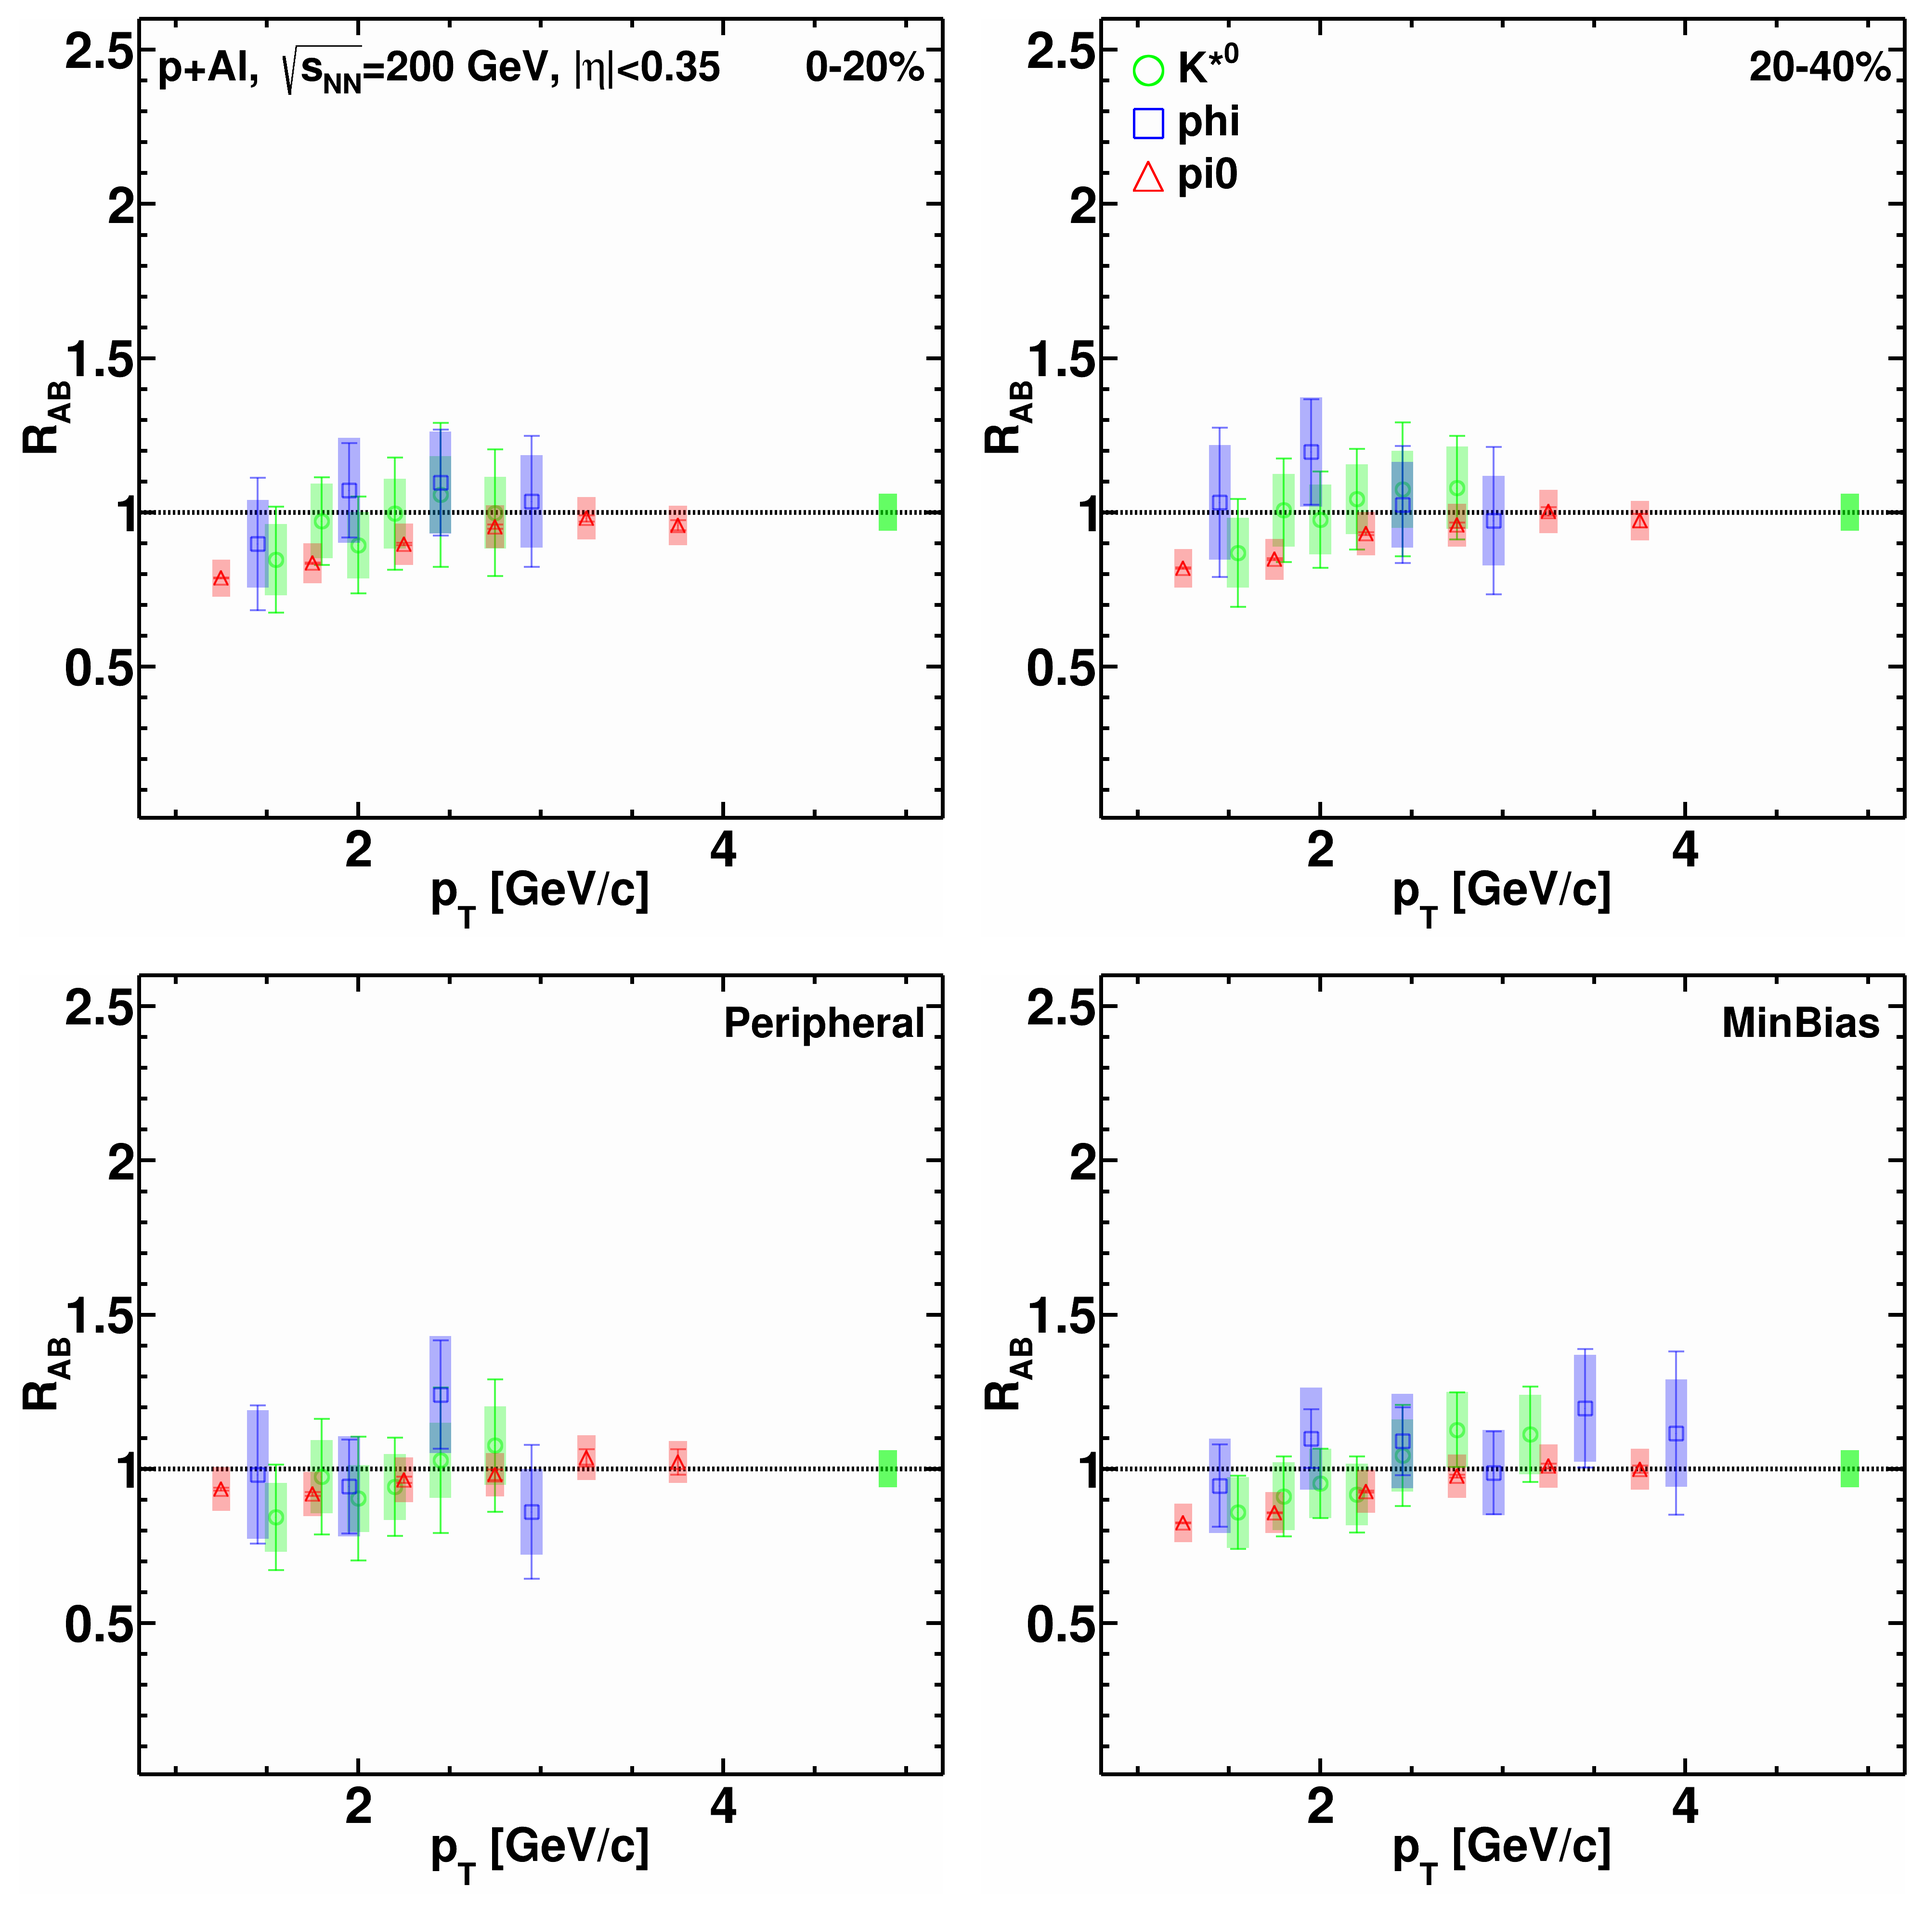
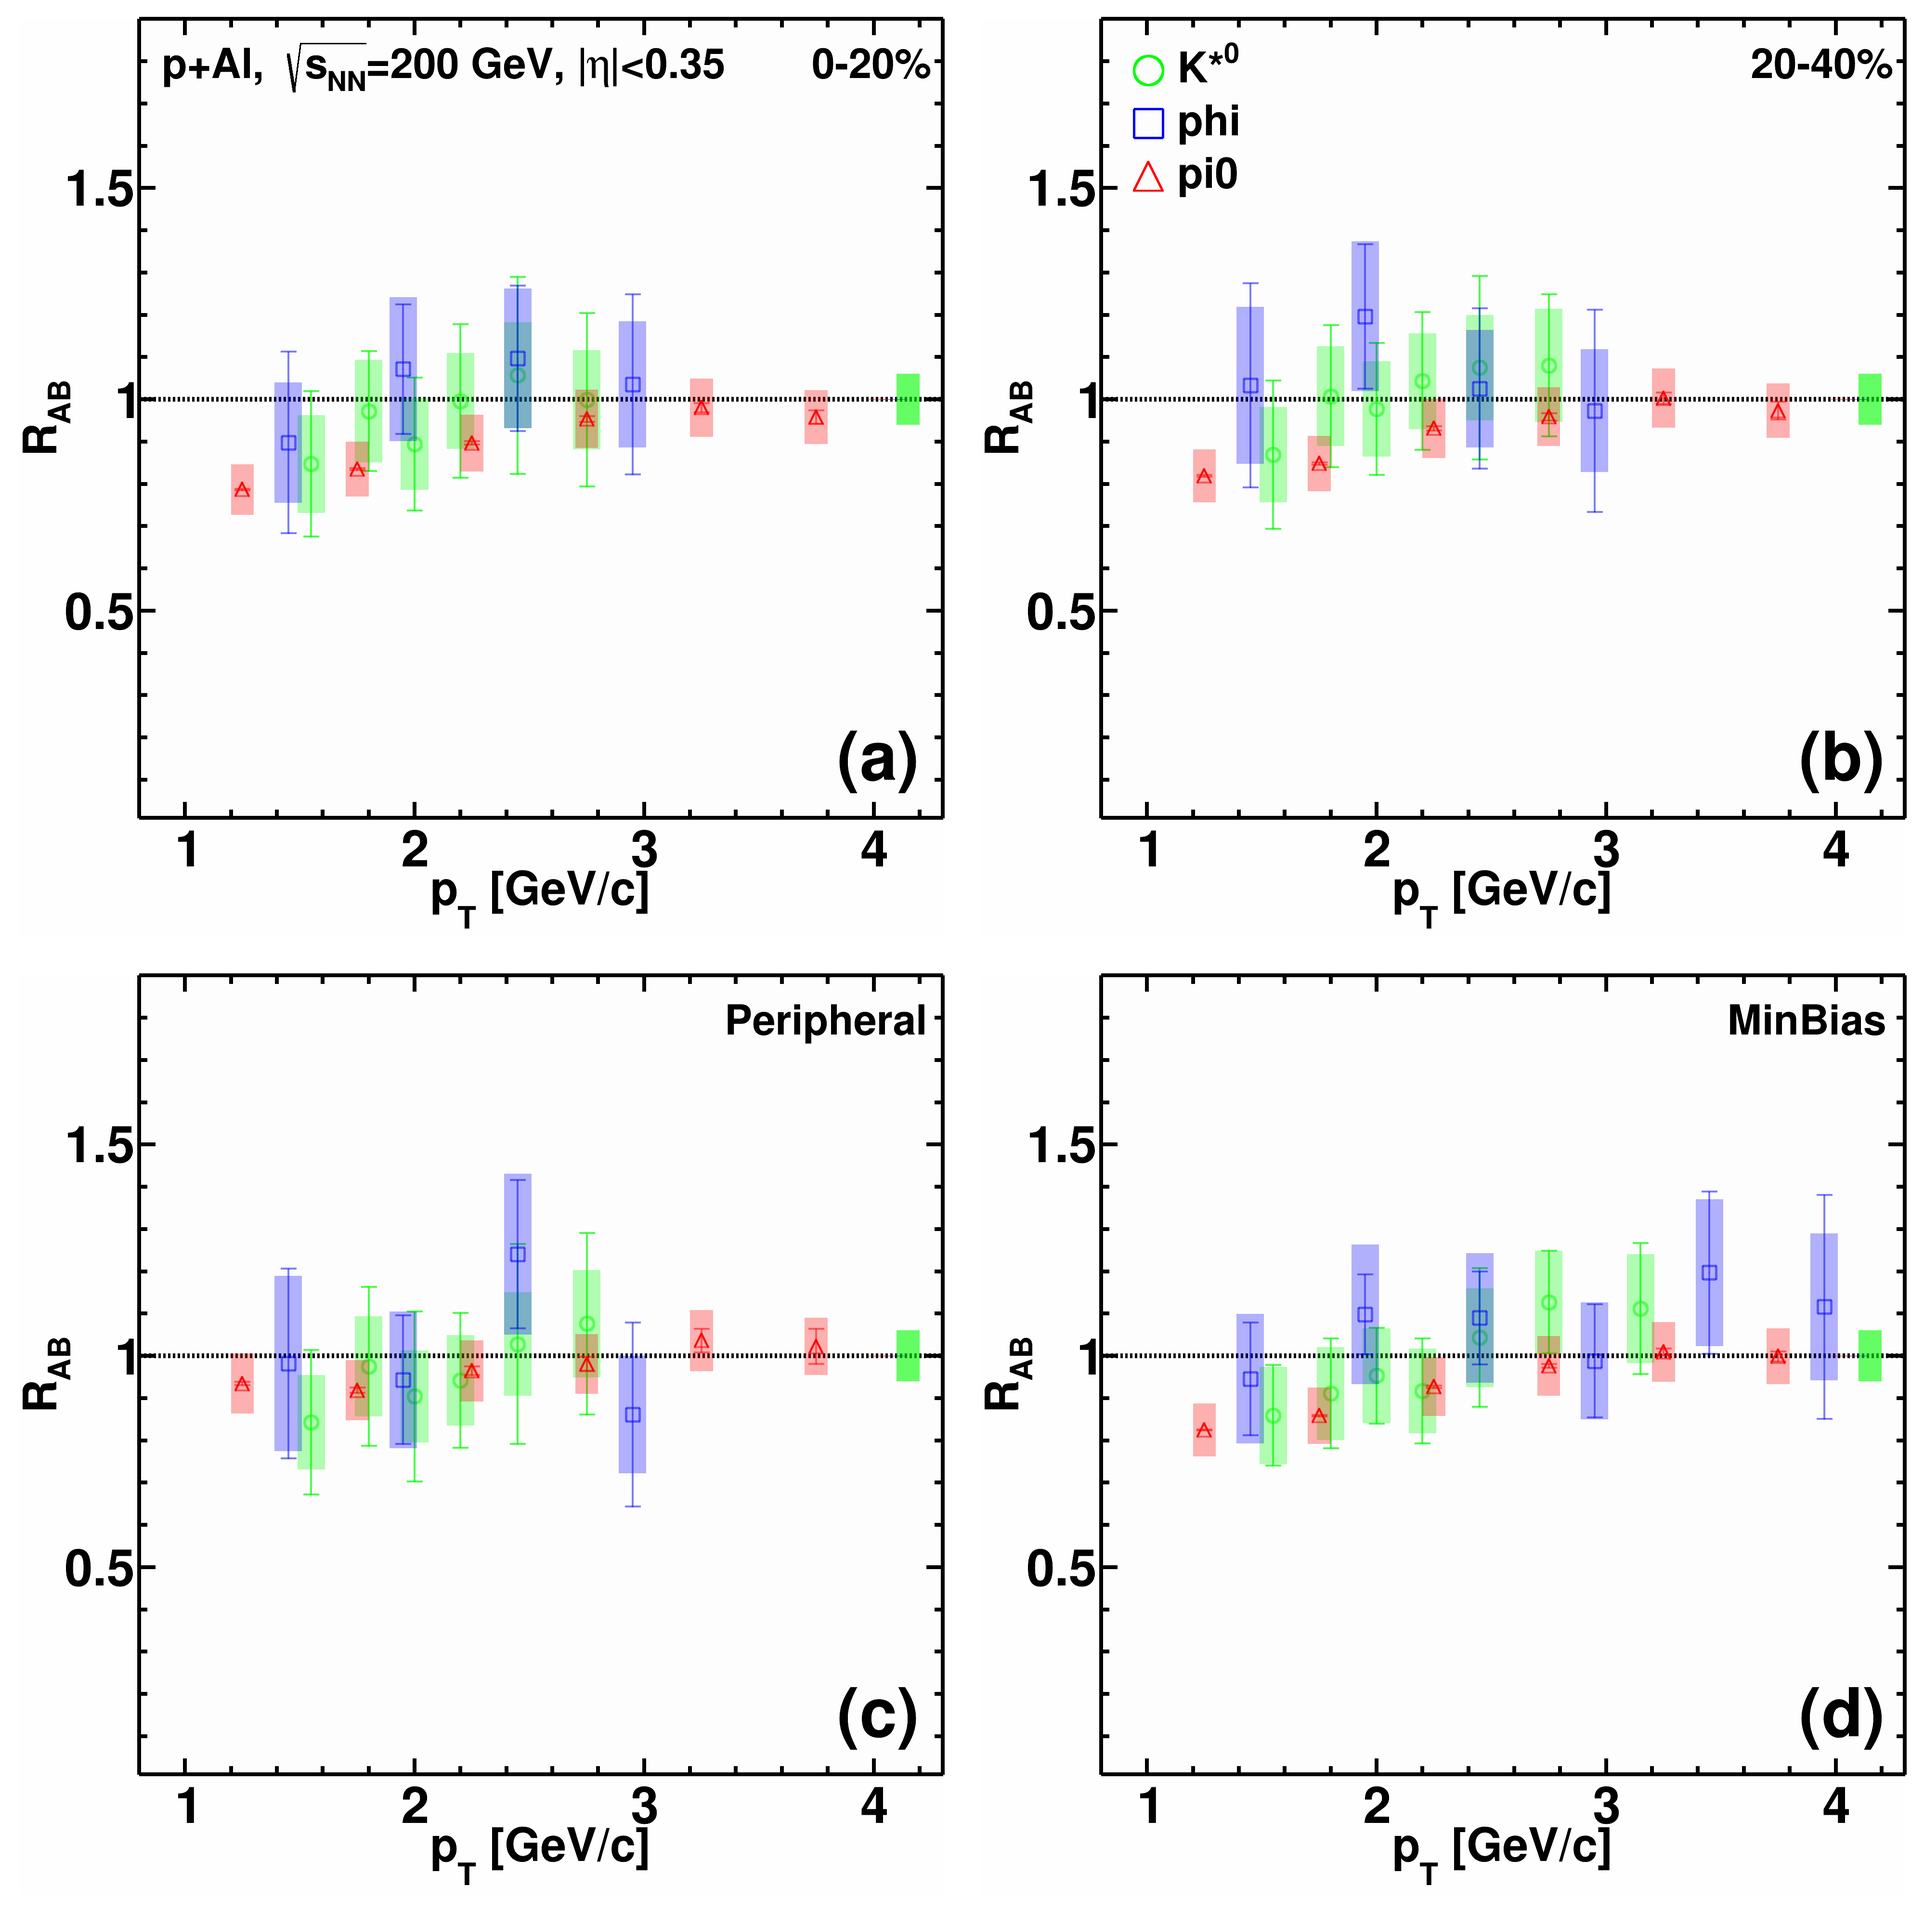
add cuau

diff --git a/plotter.cpp b/plotter.cpp
@@ -922,6 +922,7 @@ void plotter_rab_heau_phiHeAu_piHeAu() {
     kstar_phi_heau->type_c_format(7.92, 0.05);
 
     auto kstar_pi0_heau = new Particles("rab_pi0_heau", 4, n_pi0_heau, kRed, 91);
+    kstar_pi0_heau->set_sys_errors();
     kstar_pi0_heau->rab_format_graph(4, 4, 0.5);
     kstar_pi0_heau->rab_format_graph_sys(0.05, 10, 0.3);
     kstar_pi0_heau->type_c_format(7.84, 0.05);
@@ -938,12 +939,12 @@ void plotter_rab_heau_phiHeAu_piHeAu() {
 
 
 
-    legend->AddEntry(kstar_heau->graph_legend(8), "He+Au", "p");
-    legend->AddEntry(kstar_phi_heau->graph_legend(8), "phi+HeAu", "p");
-    legend->AddEntry(kstar_pi0_heau->graph_legend(8), "pi0+HeAu", "p");
+    legend->AddEntry(kstar_heau->graph_legend(8), "K*^{0}", "p");
+    legend->AddEntry(kstar_phi_heau->graph_legend(8), "phi", "p");
+    legend->AddEntry(kstar_pi0_heau->graph_legend(8), "pi0", "p");
 
     TString centr1[] = {"0-20%","20-40%", "Peripheral", "MinBias"};
-    Double_t x_for_centr1[] = {7, 6.8, 6.3, 6.7};
+    Double_t x_for_centr1[] = {7, 6.8, 6.18, 6.63};
 
     for (int i = 0; i < 4; ++i) {
         c1->cd(i + 1);
@@ -952,7 +953,7 @@ void plotter_rab_heau_phiHeAu_piHeAu() {
 
 
 
-        double param_pad[] = {0.8, 8.2, 0.01, 2.6, 1, 1.15, 0.055, 0.06, 0, 504, 506, 1};
+        double param_pad[] = {0.8, 8.2, 0.01, 1.9, 1, 1.15, 0.055, 0.06, 0, 504, 506, 1};
         Format_Pad(param_pad, x_title, y_title);
 
         if (i == 1) legend->Draw();
@@ -960,12 +961,12 @@ void plotter_rab_heau_phiHeAu_piHeAu() {
         Double_t param_lat[] = {7.2, 0.1, 62, 0.08, 2};
         kstar_heau->latex_draw(param_lat, abcd[i]);
 
-        Double_t param_lat_name[] = {1.4, 2.4, 62, 0.049, 2};
-        if (i == 0) kstar_heau->latex_draw(param_lat_name, "K*^{0}, #sqrt{s_{NN}}=200 GeV, |#eta|<0.35");
+        Double_t param_lat_name[] = {1, 1.75, 62, 0.049, 2};
+        if (i == 0) kstar_heau->latex_draw(param_lat_name, "He+Au, #sqrt{s_{NN}}=200 GeV, |#eta|<0.35");
 
 
 
-        Double_t param_lat_name1[] = {x_for_centr1[i], 2.4, 62, 0.049, 2};
+        Double_t param_lat_name1[] = {x_for_centr1[i], 1.75, 62, 0.049, 2};
         kstar_phi_heau->latex_draw(param_lat_name1, centr1[i] );
 
 
@@ -998,17 +999,18 @@ void plotter_rab_pau_phipAu_pipau() {
     auto kstar_pau = new Particles("rab_kstar_pau", 4, n_kstar_pau, kGreen, 107);
     kstar_pau->rab_format_graph(4, 4, 0.7);
     kstar_pau->rab_format_graph_sys(0.06, 10, 0.3);
-    kstar_pau->type_c_format(4.9, 0.05);
+    kstar_pau->type_c_format(4.85, 0.05);
 
     auto kstar_phi_pau = new Particles("rab_phi_pau", 4, n_phi_pau, kBlue, 108);
     kstar_phi_pau->rab_format_graph(4, 4, 0.5);
     kstar_phi_pau->rab_format_graph_sys(0.06, 10, 0.3);
-    kstar_phi_pau->type_c_format(7.92, 0.05);
+    kstar_phi_pau->type_c_format(4.79, 0.05);
 
     auto kstar_pi0_pau = new Particles("rab_pi0_pau", 4, n_pi0_pau, kRed, 91);
+    kstar_pi0_pau->set_sys_errors();
     kstar_pi0_pau->rab_format_graph(4, 4, 0.5);
     kstar_pi0_pau->rab_format_graph_sys(0.05, 10, 0.3);
-    kstar_pi0_pau->type_c_format(7.84, 0.05);
+    kstar_pi0_pau->type_c_format(4.73, 0.05);
 
 
     auto legend = new TLegend(0.4, 0.8, 0.15, 1.03);
@@ -1018,12 +1020,12 @@ void plotter_rab_pau_phipAu_pipau() {
     Format_Canvas(c1, 2, 2, 0);
 
 
-    legend->AddEntry(kstar_pau->graph_legend(8), "p+Au", "p");
-    legend->AddEntry(kstar_phi_pau->graph_legend(8), "phi+pAu", "p");
-    legend->AddEntry(kstar_pi0_pau->graph_legend(8), "pi0+pAu", "p");
+    legend->AddEntry(kstar_pau->graph_legend(8), "K*^{0}", "p");
+    legend->AddEntry(kstar_phi_pau->graph_legend(8), "phi", "p");
+    legend->AddEntry(kstar_pi0_pau->graph_legend(8), "pi0", "p");
 
     TString centr1[] = {"0-20%", "20-40%", "Peripheral", "MinBias"};
-    Double_t x_for_centr1[] = {7, 6.8, 6.3, 6.7};
+    Double_t x_for_centr1[] = {4.32, 4.2, 3.86, 4.1};
 
     for (int i = 0; i < 4; ++i) {
         c1->cd(i + 1);
@@ -1031,7 +1033,7 @@ void plotter_rab_pau_phipAu_pipau() {
         SetMarginPad(par_sp_pal);
 
 
-        double param_pad[] = {0.8, 5.2, 0.01, 2.6, 1, 1.15, 0.055, 0.06, 0, 504, 506, 1};
+        double param_pad[] = {0.8, 5, 0.01, 1.95, 1, 1.15, 0.055, 0.06, 0, 504, 506, 1};
         Format_Pad(param_pad, x_title, y_title);
 
         if (i == 1) legend->Draw();
@@ -1039,11 +1041,11 @@ void plotter_rab_pau_phipAu_pipau() {
         Double_t param_lat[] = {7.2, 0.1, 62, 0.08, 2};
         kstar_pau->latex_draw(param_lat, abcd[i]);
 
-        Double_t param_lat_name[] = {1.4, 2.4, 62, 0.049, 2};
-        if (i == 0) kstar_pau->latex_draw(param_lat_name, "K*^{0}, #sqrt{s_{NN}}=200 GeV, |#eta|<0.35");
+        Double_t param_lat_name[] = {0.9, 1.8, 62, 0.049, 2};
+        if (i == 0) kstar_pau->latex_draw(param_lat_name, "p+Au, #sqrt{s_{NN}}=200 GeV, |#eta|<0.35");
 
 
-        Double_t param_lat_name1[] = {x_for_centr1[i], 2.4, 62, 0.049, 2};
+        Double_t param_lat_name1[] = {x_for_centr1[i], 1.8, 62, 0.049, 2};
         kstar_phi_pau->latex_draw(param_lat_name1, centr1[i]);
 
 
@@ -1072,18 +1074,18 @@ void plotter_rab_pal_phipAl_pipal() {
     auto kstar_pal = new Particles("rab_kstar_pal", 4, n_kstar_pal, kGreen, 107);
     kstar_pal->rab_format_graph(4, 4, 0.7);
     kstar_pal->rab_format_graph_sys(0.06, 10, 0.3);
-    kstar_pal->type_c_format(4.9, 0.05);
+    kstar_pal->type_c_format(4.15, 0.05);
 
     auto kstar_phi_pal = new Particles("rab_phi_pal", 4, n_phi_pal, kBlue, 108);
     kstar_phi_pal->rab_format_graph(4, 4, 0.5);
     kstar_phi_pal->rab_format_graph_sys(0.06, 10, 0.3);
-    kstar_phi_pal->type_c_format(7.92, 0.05);
+    kstar_phi_pal->type_c_format(4.09, 0.05);
 
     auto kstar_pi0_pal = new Particles("rab_pi0_pal", 4, n_pi0_pal-2, kRed, 91);
     kstar_pi0_pal->set_sys_errors();
     kstar_pi0_pal->rab_format_graph(4, 4, 0.5);
     kstar_pi0_pal->rab_format_graph_sys(0.05, 10, 0.3);
-    kstar_pi0_pal->type_c_format(7.84, 0.05);
+    kstar_pi0_pal->type_c_format(4.03, 0.05);
 
 
     auto legend = new TLegend(0.4, 0.8, 0.15, 1.03);
@@ -1098,7 +1100,7 @@ void plotter_rab_pal_phipAl_pipal() {
     legend->AddEntry(kstar_pi0_pal->graph_legend(8), "pi0", "p");
 
     TString centr1[] = {"0-20%", "20-40%", "Peripheral", "MinBias"};
-    Double_t x_for_centr1[] = {4.45, 4.35, 4, 4.2};
+    Double_t x_for_centr1[] = {3.73, 3.63, 3.35, 3.53};
 
     for (int i = 0; i < 4; ++i) {
         c1->cd(i + 1);
@@ -1106,23 +1108,23 @@ void plotter_rab_pal_phipAl_pipal() {
         SetMarginPad(par_sp_pal);
 
 
-        double param_pad[] = {0.8, 5.2, 0.01, 2.6, 1, 1.15, 0.055, 0.06, 0, 504, 506, 1};
+        double param_pad[] = {0.8, 4.3, 0.01, 1.9, 1, 1.15, 0.055, 0.06, 0, 504, 506, 1};
         Format_Pad(param_pad, x_title, y_title);
 
         if (i == 1) legend->Draw();
 
-        Double_t param_lat[] = {7.2, 0.1, 62, 0.08, 2};
+        Double_t param_lat[] = {3.84, 0.1, 62, 0.08, 2};
         kstar_pal->latex_draw(param_lat, abcd[i]);
 
-        Double_t param_lat_name[] = {0.9, 2.4, 62, 0.049, 2};
+        Double_t param_lat_name[] = {0.9, 1.76, 62, 0.049, 2};
         if (i == 0) kstar_pal->latex_draw(param_lat_name, "p+Al, #sqrt{s_{NN}}=200 GeV, |#eta|<0.35");
 
 
-        Double_t param_lat_name1[] = {x_for_centr1[i], 2.4, 62, 0.049, 2};
+        Double_t param_lat_name1[] = {x_for_centr1[i], 1.76, 62, 0.049, 2};
         kstar_phi_pal->latex_draw(param_lat_name1, centr1[i]);
 
 
-        double params[5] = {0.8, 5.2, 7, 1, 10};
+        double params[5] = {0.8, 4.5, 7, 1, 10};
         unity->unity_level(params);
 
 
@@ -1134,8 +1136,91 @@ void plotter_rab_pal_phipAl_pipal() {
 
     c1->Print("ppg_plots/rab_pal_phipAl_pipal_1.png");
 }
+
+void plotter_rab_cuau_phi_pi_eta() {
+
+    auto unity_level = new Particles();
+    auto unity = new Particles();
+
+
+    TString x_title = "p_{T} [GeV/c]";
+    TString y_title = "R_{AB}";
+
+    auto kstar_cuau = new Particles("rab_kstar_cuau", 4, n_kstar_cuau, kGreen, 107);
+    kstar_cuau->rab_format_graph(4, 4, 0.7);
+    kstar_cuau->rab_format_graph_sys(0.06, 10, 0.3);
+    kstar_cuau->type_c_format(7.4, 0.05);
+
+    auto kstar_phi_cuau = new Particles("rab_phi_cuau", 4, n_phi_cuau, kBlue, 108);
+    kstar_phi_cuau->rab_format_graph(4, 4, 0.5);
+    kstar_phi_cuau->rab_format_graph_sys(0.06, 10, 0.3);
+    kstar_phi_cuau->type_c_format(7.34, 0.05);
+
+    auto kstar_pi0_cuau = new Particles("rab_pi0_cuau", 4, n_pi0_cuau, kRed, 91);
+    kstar_pi0_cuau->rab_format_graph(4, 4, 0.5);
+    kstar_pi0_cuau->rab_format_graph_sys(0.05, 10, 0.3);
+    kstar_pi0_cuau->type_c_format(7.28, 0.05);
+
+    auto kstar_eta_cuau = new Particles("rab_eta_cuau", 4, n_eta_cuau, kBlack, 95);
+    kstar_pi0_cuau->set_sys_errors();
+    kstar_eta_cuau->rab_format_graph(4, 4, 0.5);
+    kstar_eta_cuau->rab_format_graph_sys(0.06, 10, 0.3);
+    kstar_eta_cuau->type_c_format(4.09, 0.05);
+
+
+    auto legend = new TLegend(0.4, 0.8, 0.15, 1.03);
+    Format_Legend(legend, 62, 0.05, 0, 0, "");
+
+    auto c1 = new TCanvas("c1", "c1", 4000, 4000);
+    Format_Canvas(c1, 2, 2, 0);
+
+
+    legend->AddEntry(kstar_cuau->graph_legend(8), "K*^{0}", "p");
+    legend->AddEntry(kstar_phi_cuau->graph_legend(8), "phi", "p");
+    legend->AddEntry(kstar_pi0_cuau->graph_legend(8), "pi0", "p");
+    legend->AddEntry(kstar_eta_cuau->graph_legend(8), "eta", "p");
+
+    TString centr1[] = {"0-20%", "20-40%", "Peripheral", "MinBias"};
+    Double_t x_for_centr1[] = {3.73, 3.63, 3.35, 3.53};
+
+    for (int i = 0; i < 4; ++i) {
+        c1->cd(i + 1);
+        double par_sp_pal[] = {0.13, 0., 0.13, 0.0};
+        SetMarginPad(par_sp_pal);
+
+
+        double param_pad[] = {0.8, 7.6, 0.01, 1.9, 1, 1.15, 0.055, 0.06, 0, 504, 506, 1};
+        Format_Pad(param_pad, x_title, y_title);
+
+        if (i == 1) legend->Draw();
+
+        Double_t param_lat[] = {3.84, 0.1, 62, 0.08, 2};
+        kstar_cuau->latex_draw(param_lat, abcd[i]);
+
+        Double_t param_lat_name[] = {0.9, 1.76, 62, 0.049, 2};
+        if (i == 0) kstar_cuau->latex_draw(param_lat_name, "Cu+Au, #sqrt{s_{NN}}=200 GeV, |#eta|<0.35");
+
+
+        Double_t param_lat_name1[] = {x_for_centr1[i], 1.76, 62, 0.049, 2};
+        kstar_phi_cuau->latex_draw(param_lat_name1, centr1[i]);
+
+
+        double params[5] = {0.8, 7.6, 7, 1, 10};
+        unity->unity_level(params);
+
+
+        kstar_cuau->draw_all(i);
+        kstar_phi_cuau->draw_all(i);
+        kstar_pi0_cuau->draw_all(i);
+        kstar_eta_cuau->draw_all(i);
+
+    }
+
+    c1->Print("ppg_plots/rab_cuau_phi_pi_eta.png");
+}
+
 void plotter() {
-    plotter_rab_pal_phipAl_pipal();
+    plotter_rab_cuau_phi_pi_eta();
     // join_plot();
 }
 
